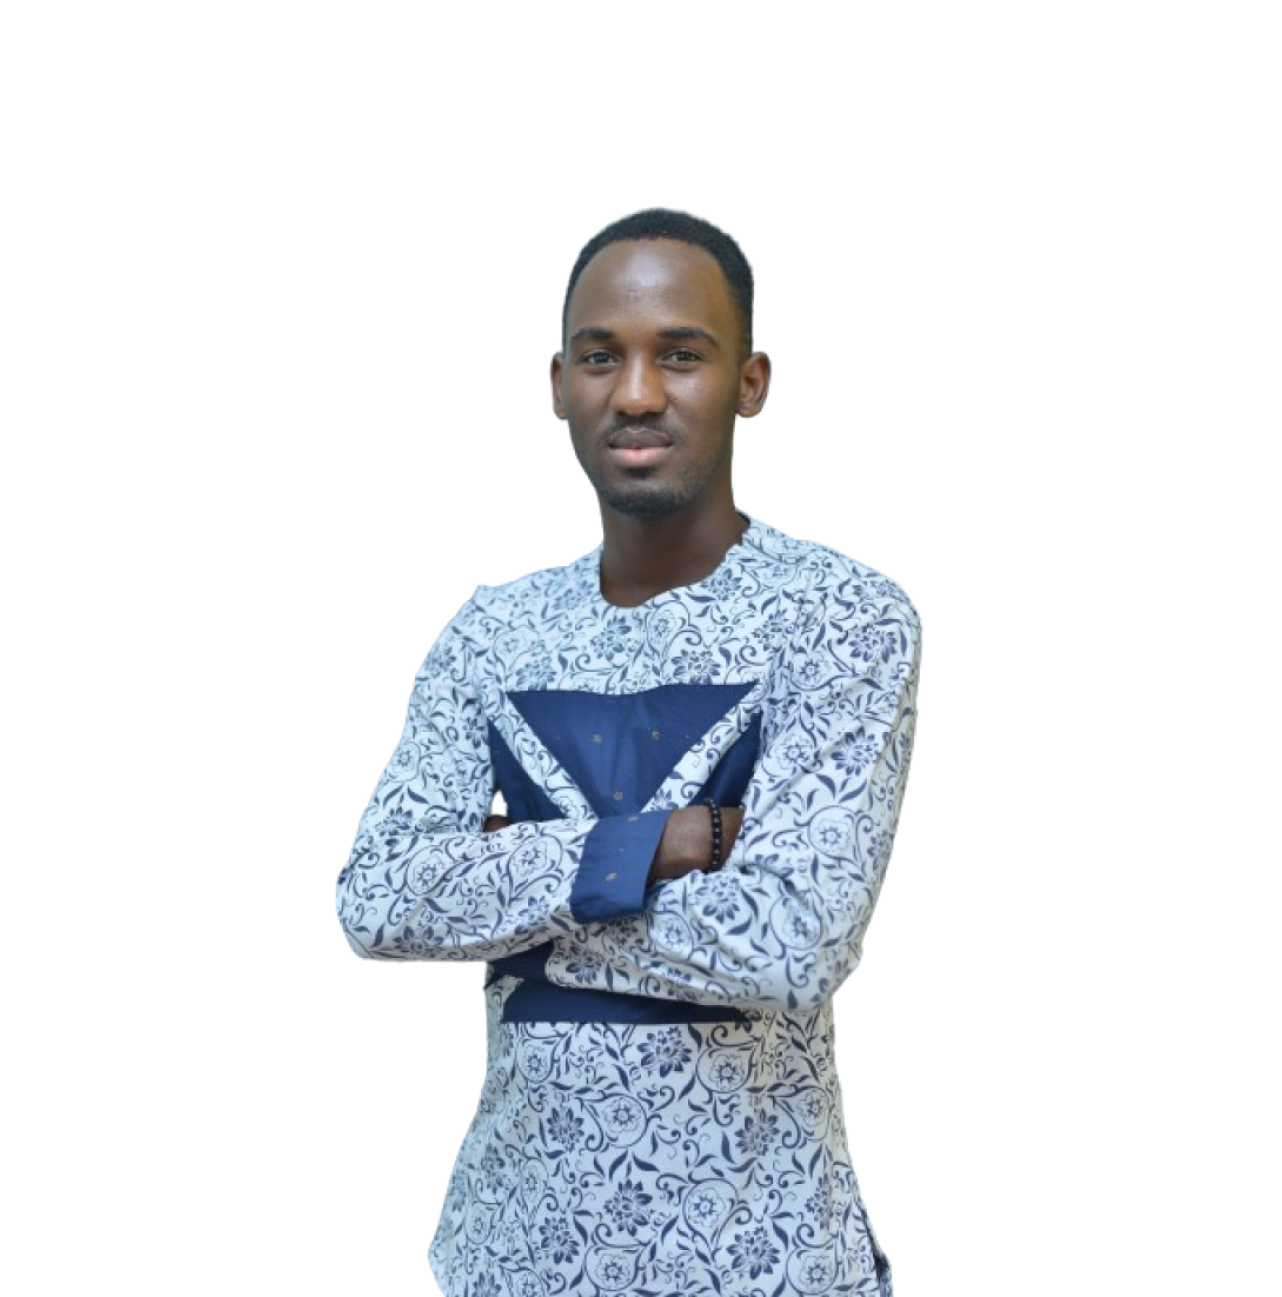
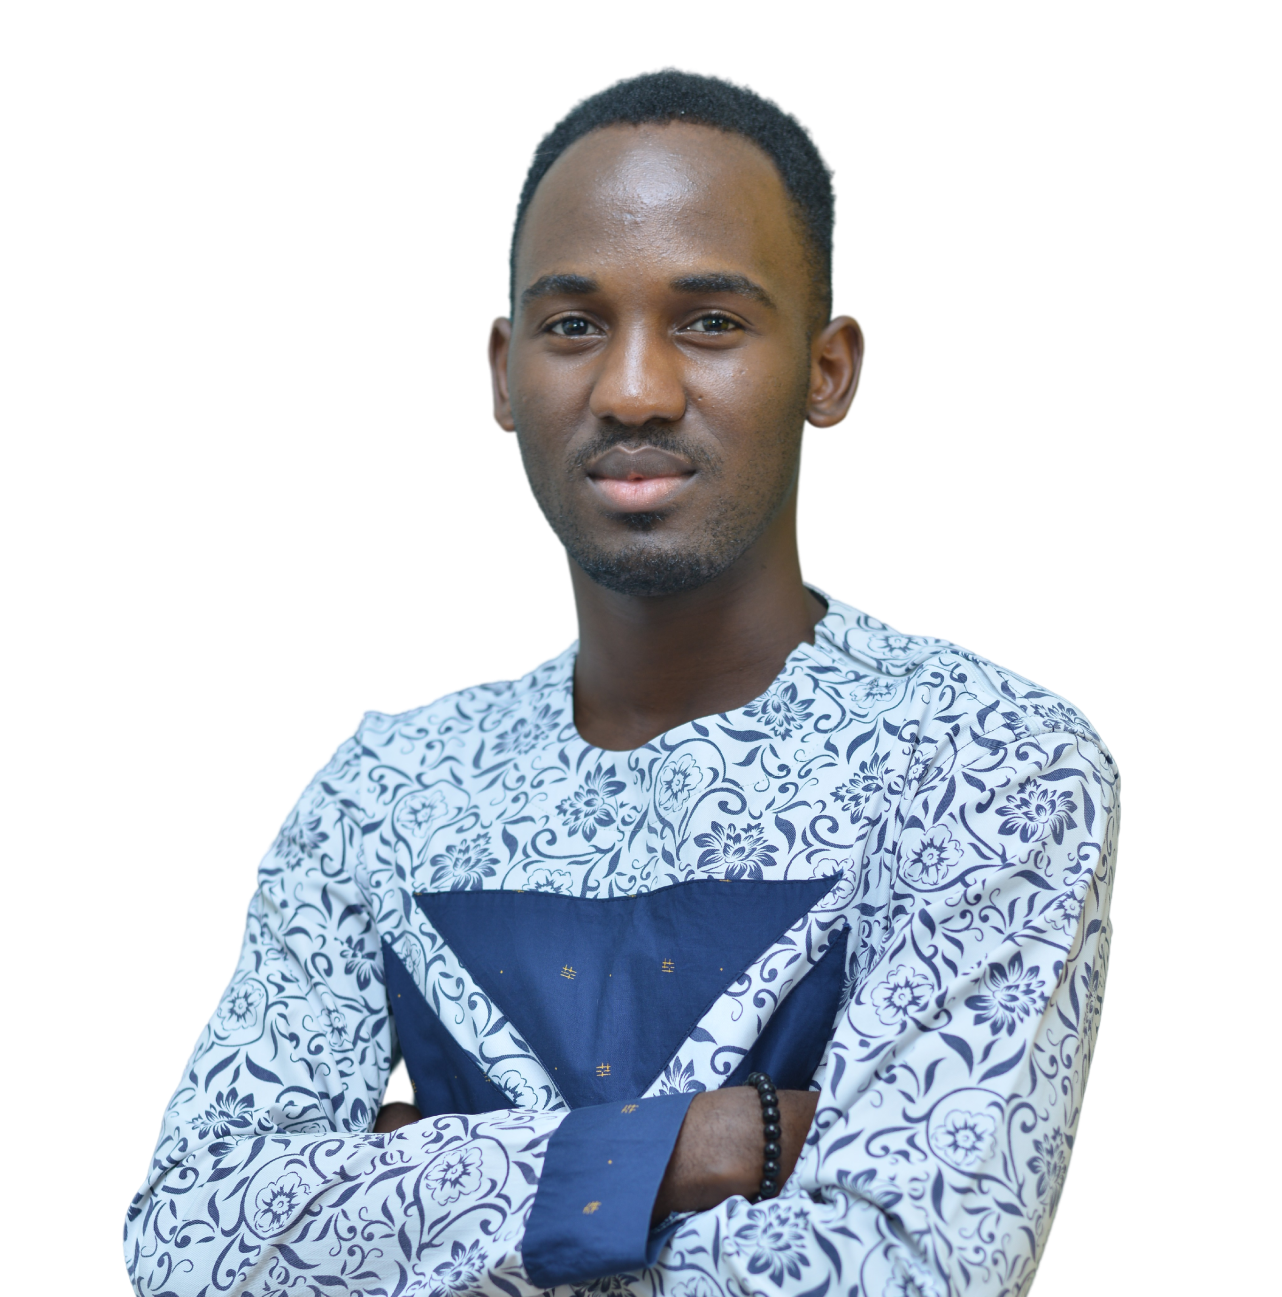
done

diff --git a/resources/views/sections/banner.blade.php b/resources/views/sections/banner.blade.php
@@ -6,13 +6,17 @@
                 <div class="art-banner-dec"></div>
                 <div class="art-banner-overlay">
                     <div class="art-banner-title">
-                        <h3 class="mb-15">Contact me and <br>Go further Online</h3>
+                        <h1 class="mb-15">Discover my amazing <br>Project Space</h1>
                         <div class="art-lg-text art-code mb-25">&lt;<i>code</i>&gt; I
                             <span class="txt-rotate" data-period="2000"
                                 data-rotate='[ "build web application.", "build ios and android applications.", " design mockups.", "use automation tools." ]'></span>&lt;/<i>code</i>&gt;
                         </div>
+                        <div class="art-buttons-frame">
+                            <a href="/projects" class="art-btn art-btn-md"><span>Explore Projects</span></a>
+                            <a href="/contact" class="art-link art-white-link art-w-chevron">Contact me</a>
+                        </div>
                     </div>
-                    {{-- <img src="img/face-2.png" class="art-banner-photo" alt="Your Name"> --}}
+                    <img src="{{ asset('client/img/face-2.png') }}" class="art-banner-photo" alt="Your Name">
                 </div>
             </div>
         </div>

diff --git a/resources/views/sections/skills.blade.php b/resources/views/sections/skills.blade.php
@@ -16,7 +16,7 @@
             <div class="art-a art-service-icon-box">
                 <div class="art-service-ib-content">
                     <h5 class="mb-15">Mobile Development</h5>
-                    <div class="mb-15">As a frontend developer, my interest is mainly focused on mobile development
+                    <div class="mb-15">As a Front End developer, my interest is mainly focused on mobile development
                         using hybrid frameworks such as React-Native, Ionic and Flutter.</div>
                 </div>
             </div>
